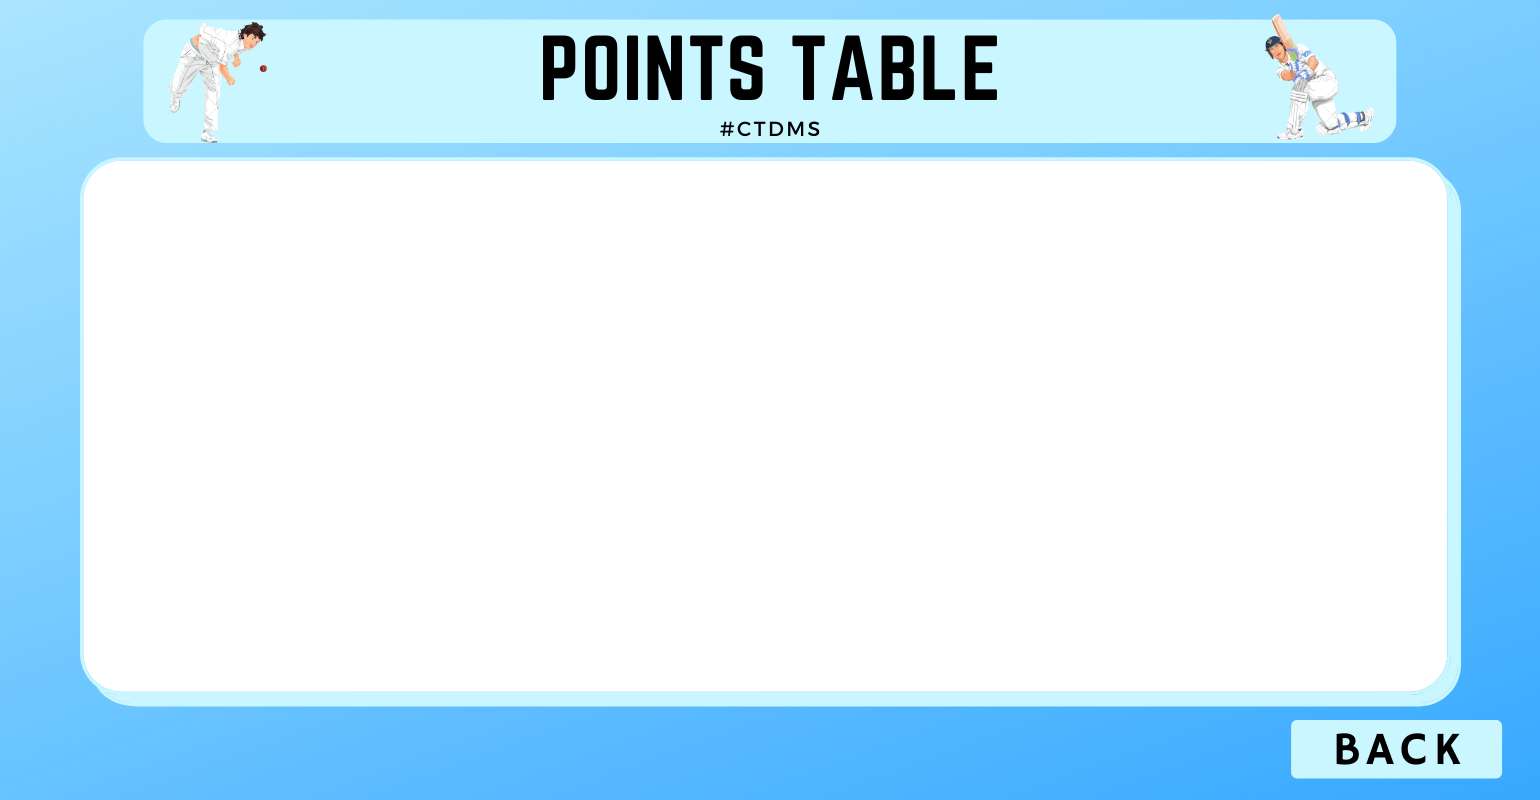
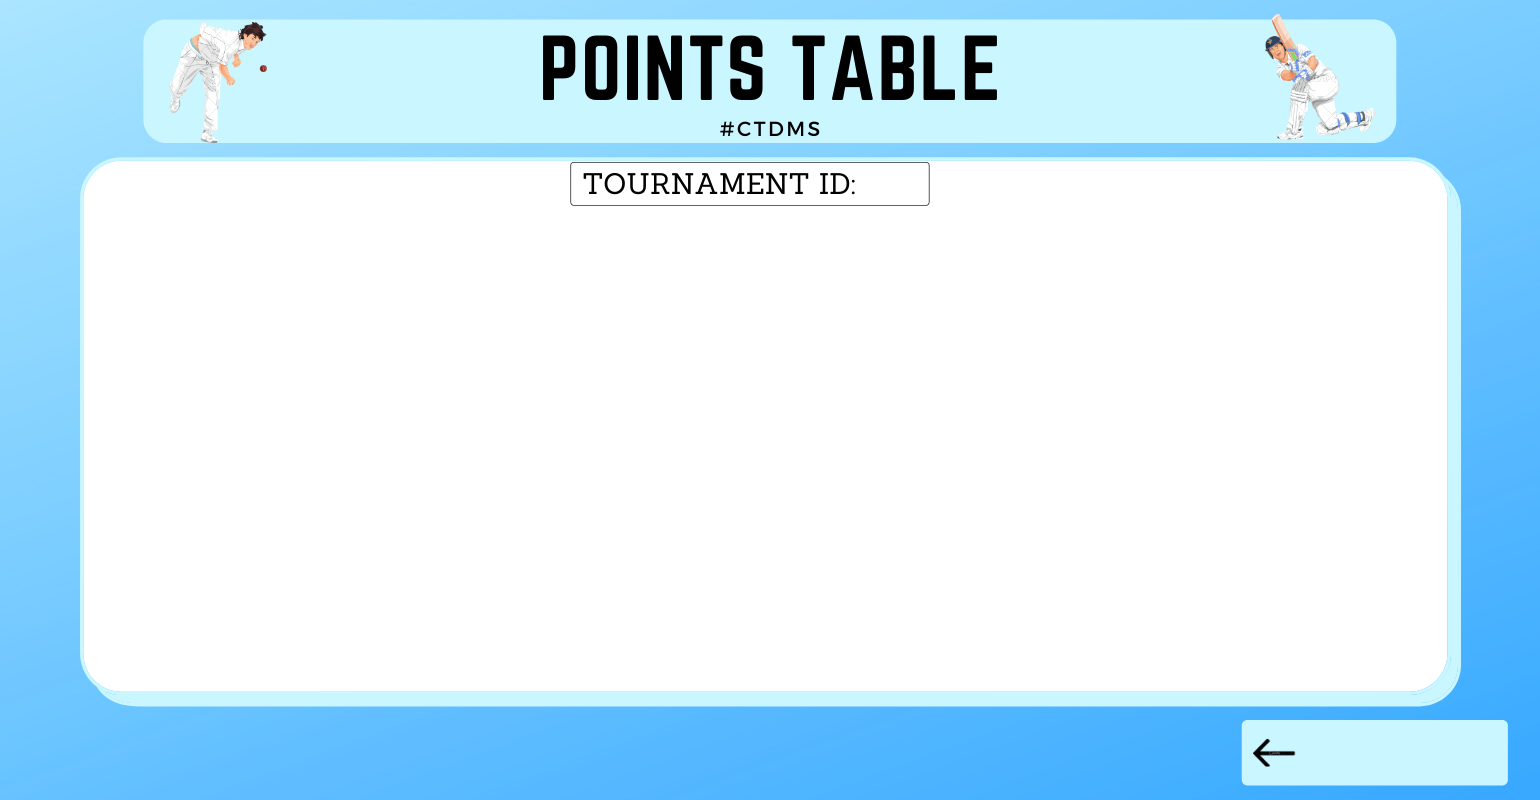
update 1.0

Changed region(s): [[0.7792, 0.875, 0.9974, 1.0], [0.374, 0.2188, 0.561, 0.25]]

diff --git a/frontend/points.py b/frontend/points.py
@@ -7,6 +7,10 @@ img = PhotoImage(file='resources\\PointsTable.png')
 pointsTablePg = Label(r, image=img)
 pointsTablePg.pack()
 
+msg = "Id"
+t_id = Message(r, text=msg, background="white", font=('Yu Gothic', 15, 'bold'))
+t_id.place(x=860, y=165, width=50)
+
 style = ttk.Style()
 style.theme_use("vista")
 style.configure("table.Treeview.Heading",
@@ -17,10 +21,10 @@ style.configure("table.Treeview.Heading",
                 font=('Yu Gothic', 20, 'bold')
                 )
 style.configure("table.Treeview",
-                background="#d3d3d3",
+                background="#d9d9d9",
                 foreground="black",
                 rowheight=43,
-                fieldbackground="#d3d3d3",
+                fieldbackground="#d9d9d9",
                 font=('Yu Gothic', 15, 'bold'))
 # style.layout("table.Treeview",[('table.Treeview.treearea', {'sticky': 'nswe'})]) #remove border
 style.map('Treeview', background=[('selected', '#caf6ff')])
@@ -49,6 +53,6 @@ table.insert(parent='', index='end', iid=0, values=("1", "csk", "14", "12", "2",
 table.place(x=130, y=220)
 
 backBtn = Button(width=10, background='#caf6ff', relief='flat', text='Back', font=('Yu Gothic', 18, 'bold'))
-backBtn.place(x=1310, y=723)
+backBtn.place(x=1310, y=727)
 
 r.mainloop()

diff --git a/frontend/teamView.py b/frontend/teamView.py
@@ -109,9 +109,13 @@ squadSaveBtn = Button(width=12, background='#ffbcad', relief='flat', text='Save'
                      foreground="white")
 squadSaveBtn.place(x=1267, y=612)
 
-teamBackBtn = Button(width=15, background='#f4a290', relief='flat', text='Back', font=('Yu Gothic', 18, 'bold'),
+teamLogoutBtn = Button(width=15, background='#f4a290', relief='flat', text='Logout', font=('Yu Gothic', 18, 'bold'),
                      foreground="white")
-teamBackBtn.place(x=100, y=722)
+teamLogoutBtn.place(x=100, y=722)
+
+addPlayerBtn = Button(width=17, height=1, background='#f4a290', relief='flat', text='Add Player', font=('Yu Gothic', 18, 'bold'),
+                     foreground="white")
+addPlayerBtn.place(x=660, y=722)
 
 ptsTableBtn = Button(width=15, background='#f4a290', relief='flat', text='Points Table', font=('Yu Gothic', 18, 'bold'),
                      foreground="white")

diff --git a/frontend/login.py b/frontend/login.py
@@ -1,6 +1,6 @@
 from tkinter import *
 
-r = Tk(className="Cricket Tournament Management System")
+r = Tk(className=" Cricket Tournament Management System")
 r.geometry("1530x790")
 img = PhotoImage(file='resources\login.png')
 loginPg = Label(r, image=img)
